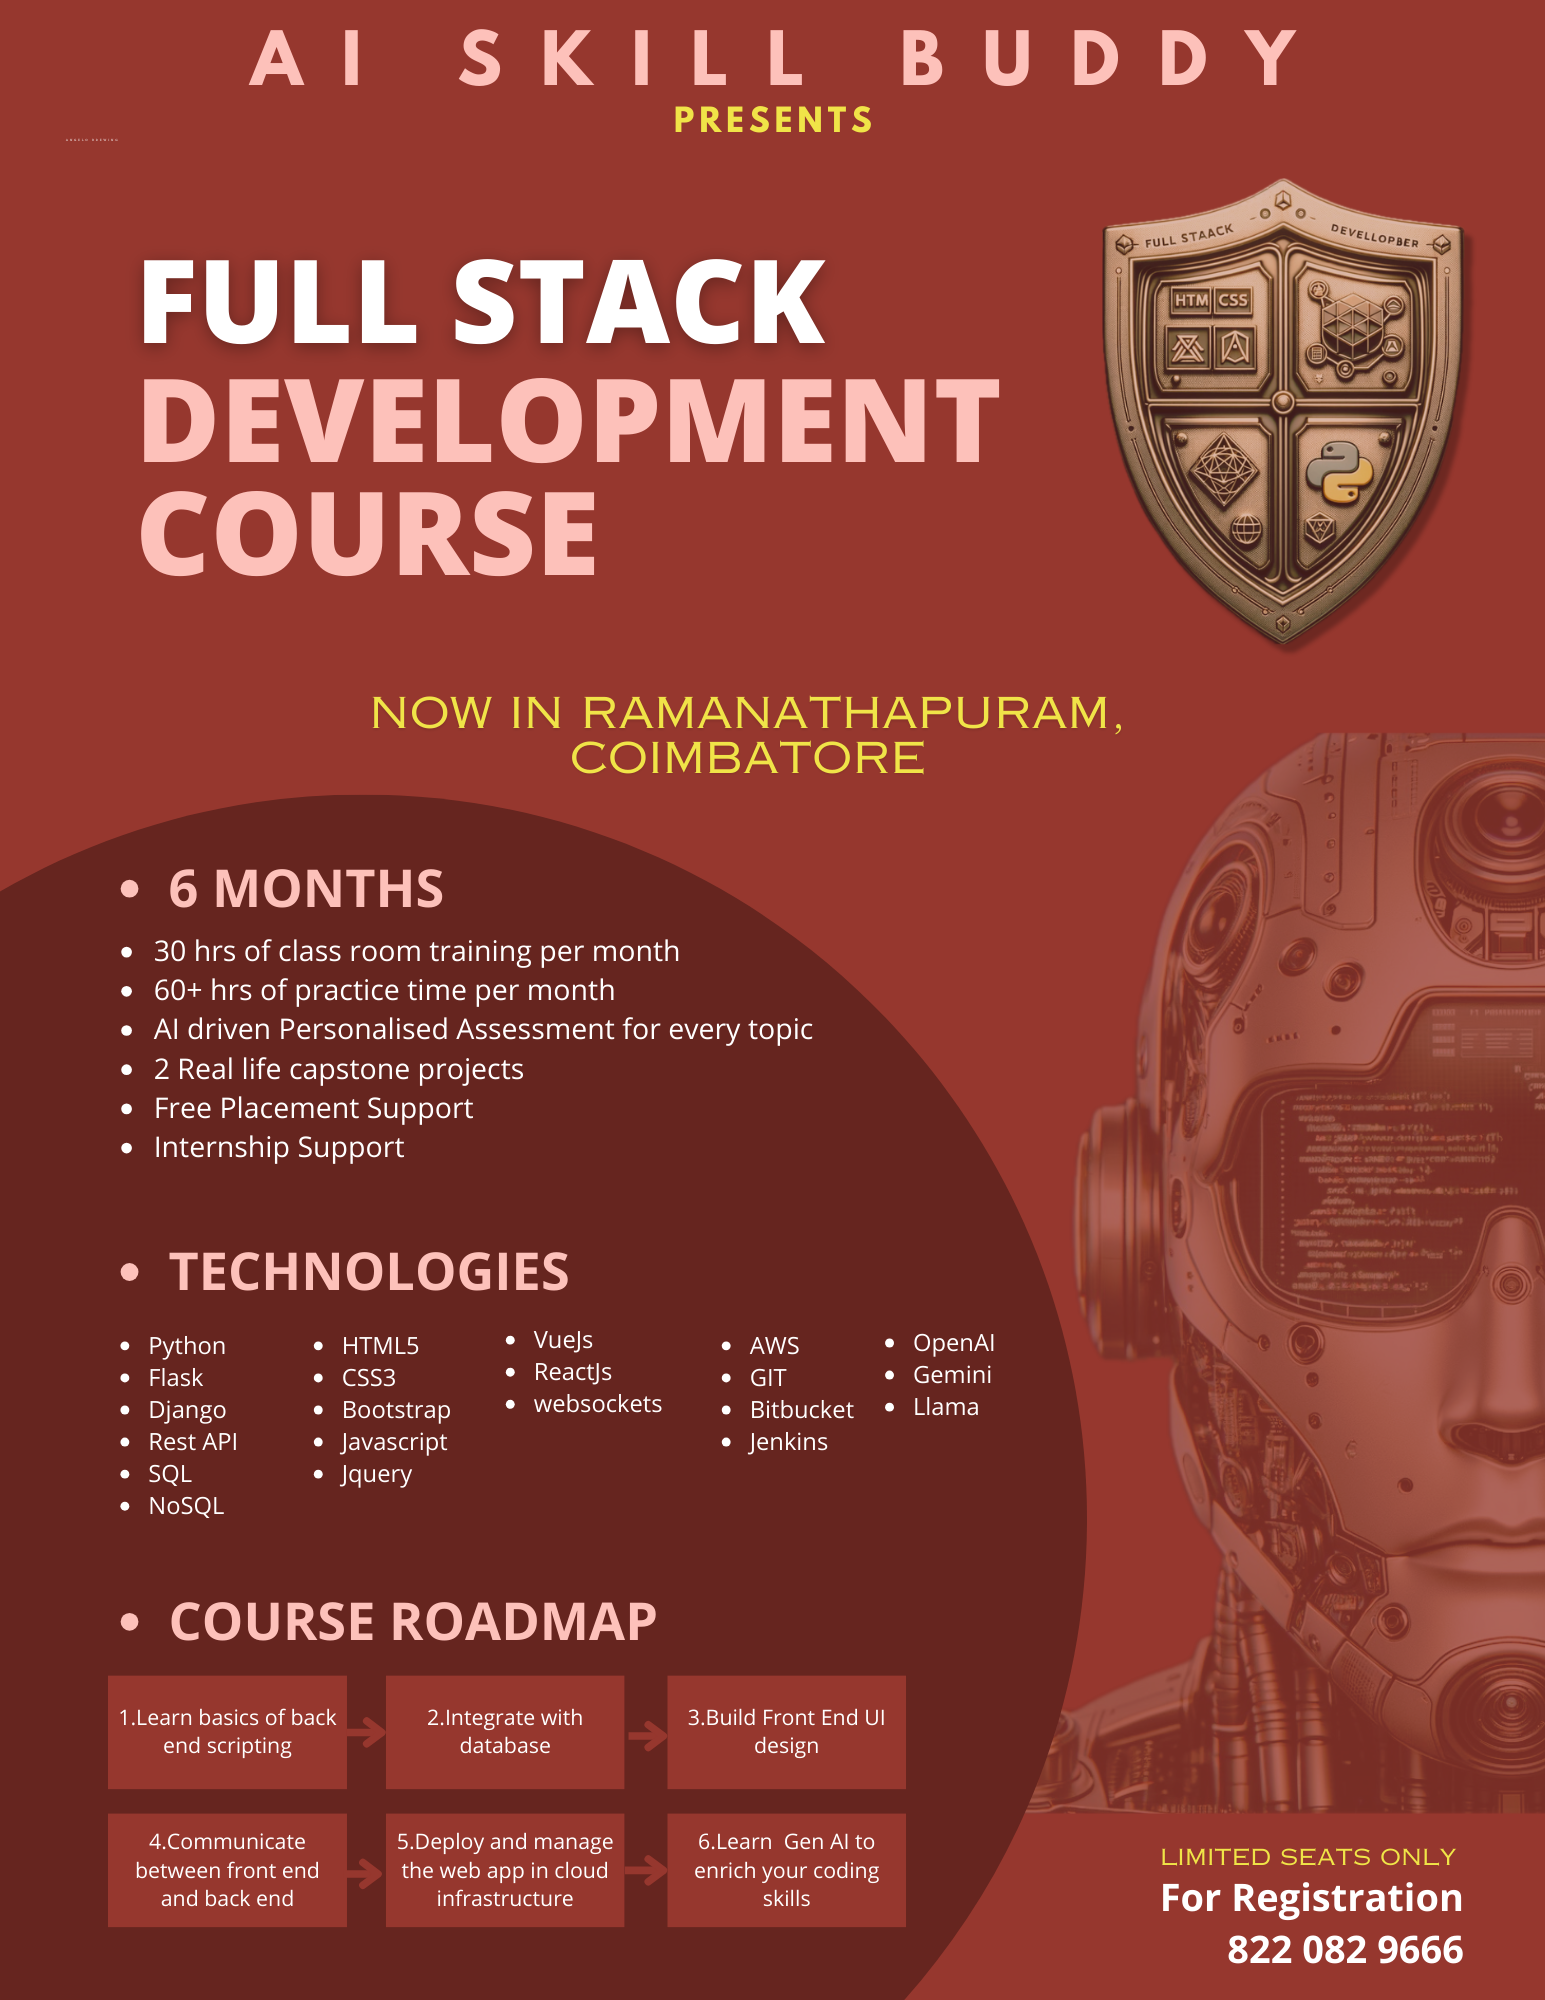
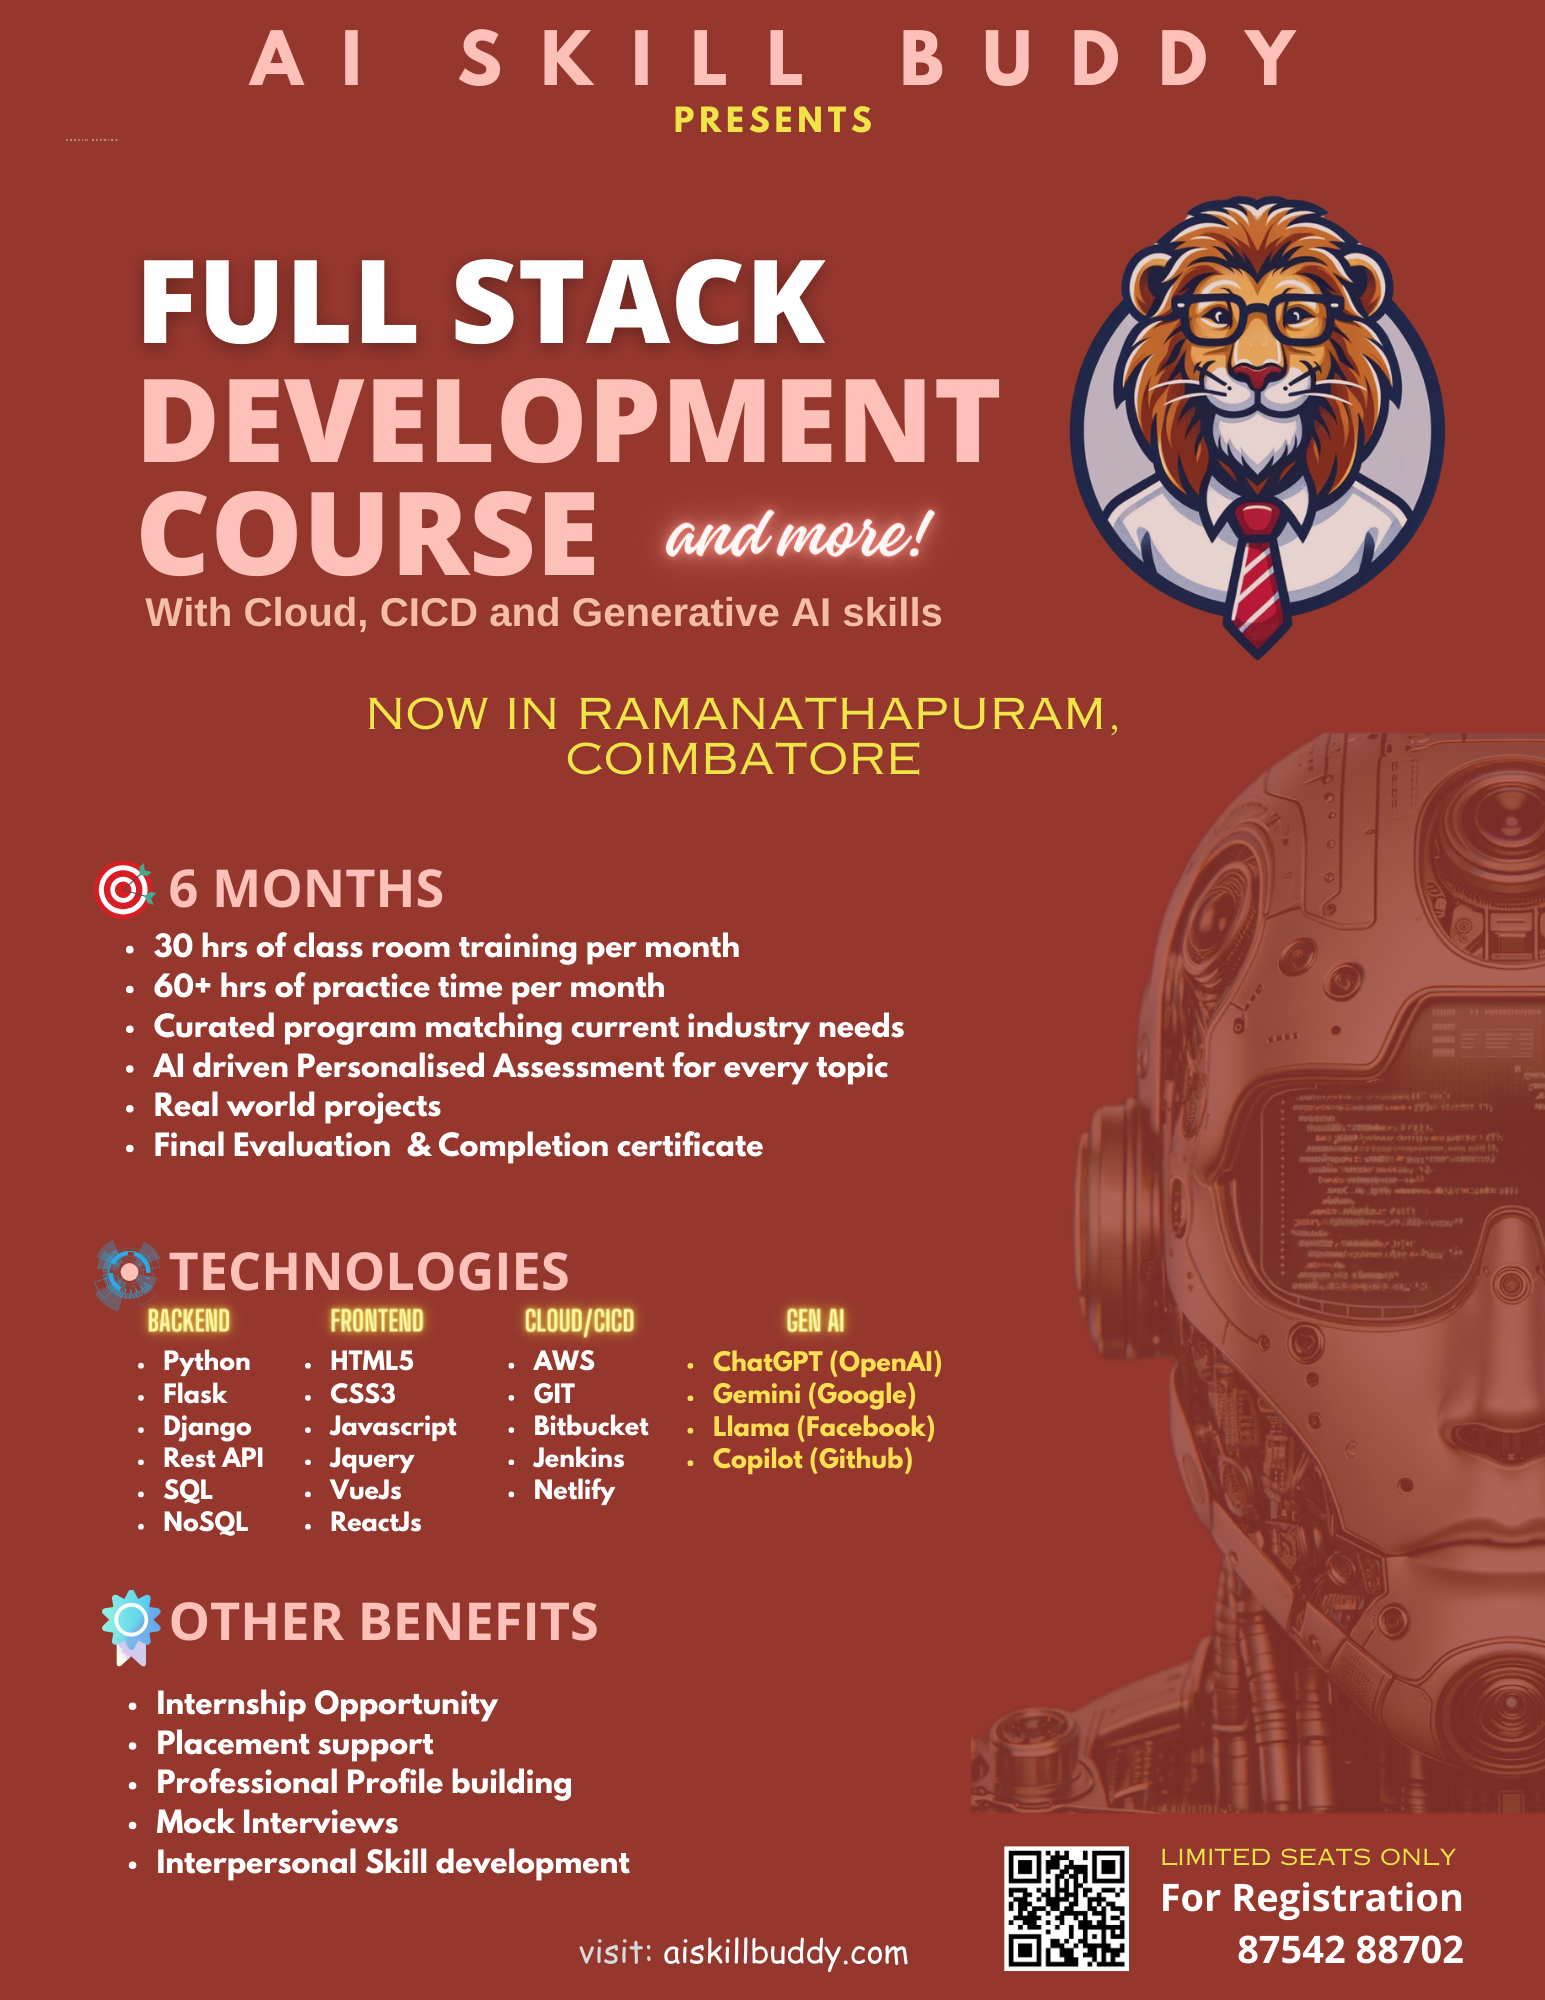
updated page view

diff --git a/src/pages/RequestCallback.vue b/src/pages/RequestCallback.vue
@@ -1,26 +1,38 @@
 <template>
   <div class="connect-button-container">
-    <q-chip
-      class="buddy-blue-5 q-pa-md text-subtitle2"
-      text-color="white"
-      icon="location_on"
-      >Ramanathapuram, Coimbatore</q-chip
+    <a
+      :href="'tel:+918754288702'"
+      style="text-decoration: none; color: inherit"
     >
-    <q-chip
-      class="q-pa-md text-subtitle2"
-      text-color="white"
-      icon="phone"
-      color="primary"
-      >+91 987 654 3210</q-chip
-    >
+      <q-chip
+        class="q-pa-md text-subtitle2"
+        text-color="white"
+        icon="phone"
+        color="primary"
+        >+91 87542 88702</q-chip
+      >
+    </a>
+    <a href="https://maps.app.goo.gl/wjFeAHBukMuEoU6K7" target="_blank">
+      <q-chip
+        class="buddy-blue-5 q-pa-md q-ma-md text-subtitle2"
+        text-color="white"
+        icon="location_on"
+        clickable
+      >
+        Ramanathapuram, Coimbatore
+      </q-chip>
+    </a>
+
+    ]
   </div>
 </template>
 <script>
-import { defineComponent } from "vue";
+import { defineComponent, ref } from "vue";
 
 export default defineComponent({
   name: "RequestCallback",
   components: {},
+  setup() {},
 });
 </script>
 <style scoped>

diff --git a/src/pages/CloudCourses.vue b/src/pages/CloudCourses.vue
@@ -14,16 +14,15 @@
             <q-avatar :icon="course.icon" text-color="indigo-2" />
           </q-item-section>
 
-          <q-item-section class="text-indigo-3 text-h6">{{
-            course.title
-          }}</q-item-section>
-          <q-item-section side>
-            <q-chip
-              class="q-pa-sm q-mx-sm shadow-3 text-indigo-3 text-subtitle2"
-              outline
-              >{{ course.duration }}</q-chip
-            >
+          <q-item-section class="text-indigo-3 text-h6 header-title-box">
+            <div>
+              {{ course.title }}
+            </div>
+            <div class="text-subtitle2 text-grey">
+              {{ course.duration }}
+            </div>
           </q-item-section>
+          <q-item-section side> </q-item-section>
         </template>
 
         <q-card>
@@ -37,12 +36,6 @@
             </div>
           </q-card-section>
 
-          <q-card-section
-            class="bg-black text-blue-1 text-h6 central-container"
-          >
-            Duration : {{ course.duration }}
-          </q-card-section>
-          <hr class="hr-class" />
           <q-card-section
             class="bg-black text-blue-1 text-h6 central-container"
           >

diff --git a/src/layouts/HomeLayout.vue b/src/layouts/HomeLayout.vue
@@ -2,6 +2,15 @@
   <q-layout view="lHh Lpr lFf">
     <q-header elevated>
       <q-toolbar>
+        <q-toolbar-title> AI Skill Buddy </q-toolbar-title>
+        <q-btn
+          class="q-pa-md"
+          flat
+          dense
+          no-caps
+          label="Academy (CBSE)"
+          @click="goToAcamadics"
+        />
         <q-btn
           flat
           dense
@@ -9,24 +18,6 @@
           icon="menu"
           aria-label="Menu"
           @click="toggleLeftDrawer"
-        />
-
-        <q-toolbar-title> AI Skill Buddy </q-toolbar-title>
-        <q-btn
-          class="q-pa-md"
-          flat
-          dense
-          no-caps
-          label="Academics"
-          @click="goToAcamadics"
-        />
-        <q-btn
-          class="q-pa-md"
-          flat
-          dense
-          no-caps
-          label="Login"
-          @click="goToLogin"
         />
       </q-toolbar>
     </q-header>

diff --git a/src/pages/FlyerSection.vue b/src/pages/FlyerSection.vue
@@ -3,6 +3,10 @@
     <q-image>
       <img class="flyer-card" src="~assets/flyer_1.png" alt="Quasar Logo" />
     </q-image>
+
+    <q-image>
+      <img class="flyer-card" src="~assets/flyer_2.png" alt="Quasar Logo" />
+    </q-image>
   </div>
 </template>
 <script>
@@ -23,5 +27,11 @@ export default defineComponent({
 .flyer-card {
   max-width: 100%;
   max-height: 90vh;
+}
+
+@media (max-width: 600px) {
+  .flyer-section {
+    flex-direction: column;
+  }
 }
 </style>
